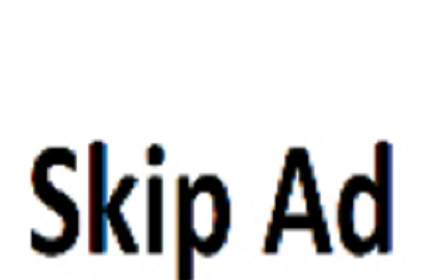
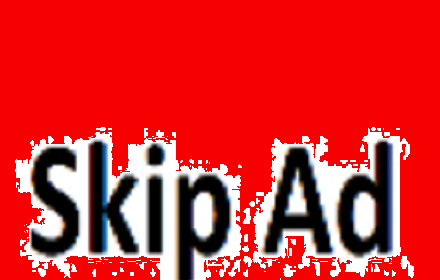
Updated to be accepted in chrome webstore and eliminate violation Yellow Magnesium and Purple Potassium
content.js update:
From =           console.log("Skip Ad button not found");
To =          console.log("Searching for Skip Ad button");

Manifest update:

From=   "permissions": ["activeTab", "storage"],
To =   "permissions": [
    "activeTab",
    "storage"
  ],
  "host_permissions": [
    "https://www.youtube.com/"
  ],

also, removed unnecessary icons.

diff --git a/content.js b/content.js
@@ -21,7 +21,7 @@ chrome.storage.sync.get('activationState', function(data) {
 
 
         } else {
-          console.log("Skip Ad button not found");
+          console.log("Searching for Skip Ad button");
         }
       };
   
